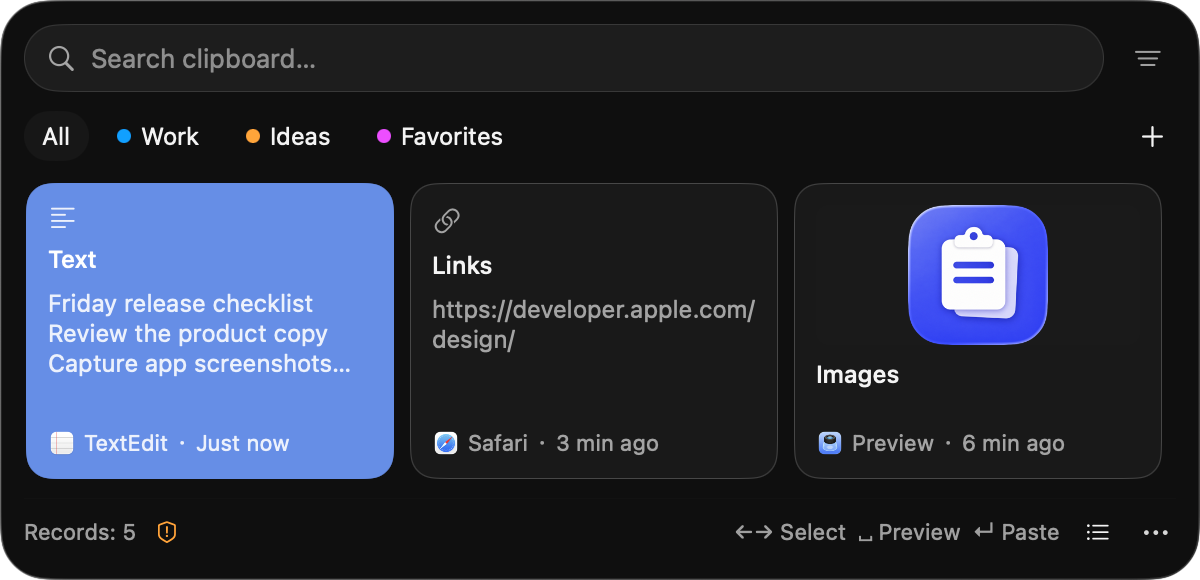
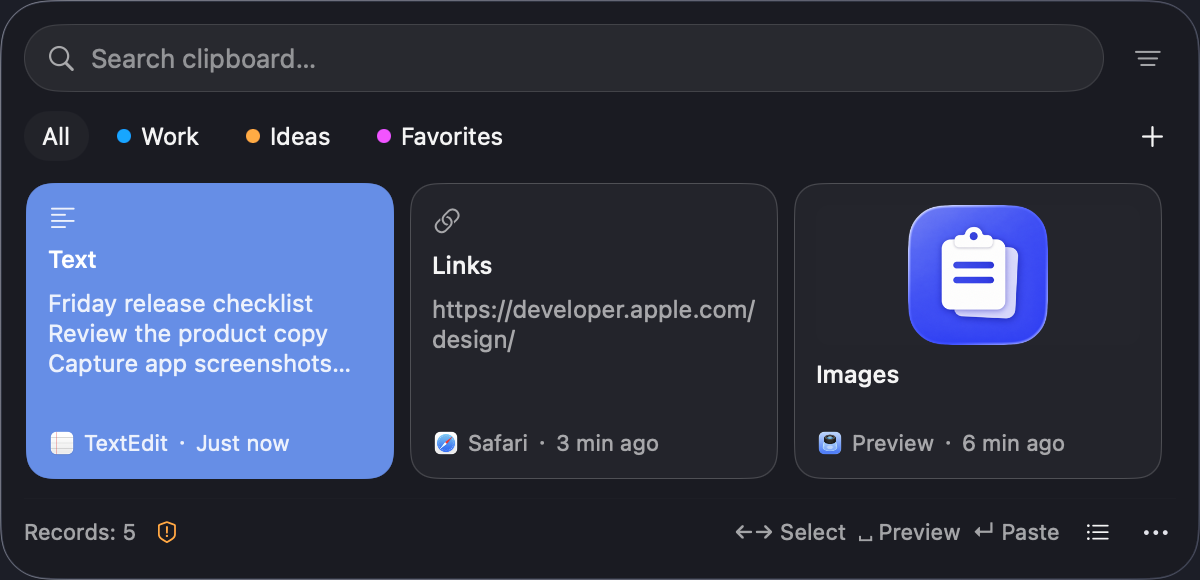
fix: improve website discovery and screenshot backgrounds
* fix: improve website discovery and screenshot backgrounds

* docs: keep a single website changelog entry

---------

diff --git a/website/styles.css b/website/styles.css
@@ -46,10 +46,10 @@ h1 span { color: var(--blue); }
 .hero-copy > p:not(.eyebrow):not(.compatibility) { max-width: 440px; font-size: 18px; color: var(--muted); line-height: 1.85; }
 .actions { display: flex; flex-wrap: wrap; gap: 12px; margin-top: 28px; }
 .compatibility { margin: 18px 0 0; font-size: 13px; color: var(--muted); }
-.hero-visual { margin: 0; position: relative; padding: 35px 18px 22px; border: 1px solid #d9dfff; border-radius: 32px; background: radial-gradient(ellipse at 70% 15%, #fff 0, transparent 60%), linear-gradient(150deg, #e9edff, #b9c8ff); }
-.visual-topline { display: flex; align-items: center; justify-content: space-between; gap: 12px; padding-inline: 15px; margin-bottom: 16px; color: #3d4973; font-size: 12px; letter-spacing: .04em; }
-.hero-visual > picture img { width: 100%; filter: drop-shadow(0 15px 24px #23337329); }
-.hero-visual figcaption { text-align: center; color: #3d4973; font-size: 12px; margin-top: 12px; }
+.hero-visual { margin: 0; position: relative; padding: 35px 18px 22px; border: 1px solid var(--line); border-radius: 32px; background: var(--surface); }
+.visual-topline { display: flex; align-items: center; justify-content: space-between; gap: 12px; padding-inline: 15px; margin-bottom: 16px; color: var(--muted); font-size: 12px; letter-spacing: .04em; }
+.hero-visual > picture img { width: 100%; }
+.hero-visual figcaption { text-align: center; color: var(--muted); font-size: 12px; margin-top: 12px; }
 .overview { display: grid; grid-template-columns: repeat(4, 1fr); padding-block: 26px; border-block: 1px solid var(--line); }
 .overview div { text-align: center; padding: 4px 12px; }
 .overview div + div { border-left: 1px solid var(--line); }
@@ -62,10 +62,10 @@ h2 { font-size: clamp(30px, 3.4vw, 42px); line-height: 1.3; letter-spacing: -.04
 .section-heading > p:last-child { color: var(--muted); font-size: 17px; }
 .layouts { padding-bottom: 0; }
 .layout-gallery { display: grid; grid-template-columns: 1.15fr 1fr; gap: 24px; }
-.layout-gallery figure { margin: 0; padding: 28px 24px 24px; background: var(--soft); border: 1px solid var(--line); border-radius: var(--radius); }
+.layout-gallery figure { margin: 0; padding: 28px 24px 24px; background: var(--surface); border: 1px solid var(--line); border-radius: var(--radius); }
 .layout-image { height: 330px; display: flex; align-items: center; justify-content: center; }
 .layout-image picture { display: block; width: 100%; }
-.layout-image img { max-height: 330px; width: 100%; object-fit: contain; filter: drop-shadow(0 10px 16px #2333731a); }
+.layout-image img { max-height: 330px; width: 100%; object-fit: contain; }
 .layout-gallery figcaption { margin-top: 24px; }
 .layout-gallery figcaption strong { display: block; font-size: 18px; margin-bottom: 6px; }
 .layout-gallery figcaption span { color: var(--muted); font-size: 15px; }
@@ -122,8 +122,6 @@ details p:last-child { margin-bottom: 0; }
 @media (prefers-color-scheme: dark) {
     :root { --page: #13151d; --surface: #1b1e28; --text: #f0f1f6; --muted: #afb5c7; --line: #303544; --blue: #a5b1ff; --soft: #242b46; }
     .button { background: #495be9; color: #fff; }
-    .hero-visual { background: radial-gradient(ellipse at 70% 15%, #374b89 0, transparent 60%), linear-gradient(150deg, #28385f, #252d47); border-color: #3a4974; }
-    .visual-topline, .hero-visual figcaption { color: #d1dbff; }
     .group-gallery figure:not(.dark) { border-color: #b4bfd7; }
 }
 

diff --git a/CONTRIBUTING.md b/CONTRIBUTING.md
@@ -116,13 +116,17 @@ sh scripts/build-website.sh
 python3 -m http.server 4173 --bind 127.0.0.1 --directory .build/website
 ```
 
-Open `http://127.0.0.1:4173/` or `http://127.0.0.1:4173/en/`. Re-run the build after edits. The build copies only the website pages, stylesheet, and selected images from `docs/` into `.build/website/`. Before submitting, check both languages, narrow and desktop layouts, light/dark appearance, keyboard navigation, FAQ expansion, and local links. No macOS app build is needed for website-only changes.
+Open `http://127.0.0.1:4173/` or `http://127.0.0.1:4173/en/`. Re-run the build after edits. The build copies only the website pages, stylesheet, sitemap, robots file, and selected images from `docs/` into `.build/website/`. Before submitting, check both languages, narrow and desktop layouts, light/dark appearance, keyboard navigation, FAQ expansion, and local links. No macOS app build is needed for website-only changes.
 
-Keep source PNGs in `docs/`. The website uses the 256 × 256 `logo-web.png` for its icons (displayed at up to 72 CSS pixels) and lossless `.webp` copies of the app screenshots. When replacing screenshots, regenerate the WebP with `cwebp -lossless -exact -metadata icc -m 6 input.png -o output.webp` to preserve pixels and the color profile. The normal website build only copies committed assets and does not require image conversion tools.
+Keep source PNGs in `docs/`. The website uses the 256 × 256 `logo-web.png` for its icons (displayed at up to 72 CSS pixels) and lossless `.webp` copies of the app screenshots. When replacing screenshots, regenerate the WebP with `cwebp -lossless -exact -metadata icc -m 6 input.png -o output.webp` to preserve pixels and the color profile. Capture the composited screen region with an opaque white backdrop in light appearance and a neutral dark backdrop in dark appearance; capturing the glass window alone can lose its backdrop and produce a gray veil. Use only synthetic content and exclude other windows. The normal website build only copies committed assets and does not require image conversion tools.
 
 In repository **Settings → Pages → Build and deployment**, select **GitHub Actions**. The [Website workflow](./.github/workflows/pages.yml) builds on relevant pull requests and deploys only from `main`, after website, selected asset, build-script, or workflow changes; it can also be run manually. Website publishing does not create an application release. Downloads always link to the latest GitHub Release.
 
-The default public URLs are `https://wygkzqa.github.io/paste-lite/` and its `en/` subdirectory. Relative asset links support this project path. If a custom domain is added, also update the canonical, alternate-language, and Open Graph URLs in both HTML files and the website links in both READMEs.
+The default public URLs are `https://wygkzqa.github.io/paste-lite/` and its `en/` subdirectory. Relative asset links support this project path.
+
+The [sitemap](./website/sitemap.xml) lists both language versions and is published at `https://wygkzqa.github.io/paste-lite/sitemap.xml`; it can be submitted directly to search-engine webmaster tools. [robots.txt](./website/robots.txt) is included in the build as a deployable copy, but crawlers only use `https://wygkzqa.github.io/robots.txt`. The project-path copy at `/paste-lite/robots.txt` has no effect on crawling; deploy the file separately through the account site to enable it. A missing host-root robots file does not block crawling.
+
+If a custom domain is added, also update the canonical, alternate-language, and Open Graph URLs in both HTML files, the sitemap and robots file, and the website links in both READMEs.
 
 ## Implementation guidelines
 

diff --git a/CONTRIBUTING.zh-CN.md b/CONTRIBUTING.zh-CN.md
@@ -116,13 +116,17 @@ sh scripts/build-website.sh
 python3 -m http.server 4173 --bind 127.0.0.1 --directory .build/website
 ```
 
-打开 `http://127.0.0.1:4173/` 或 `http://127.0.0.1:4173/en/`，修改后重新执行构建。构建仅将官网页面、样式表及 `docs/` 中选定的图片复制到 `.build/website/`。提交前检查两种语言、窄屏与桌面布局、浅色与深色外观、键盘导航、FAQ 展开及本地链接。仅修改官网无需构建 macOS 应用。
+打开 `http://127.0.0.1:4173/` 或 `http://127.0.0.1:4173/en/`，修改后重新执行构建。构建仅将官网页面、样式表、网站地图、robots 文件及 `docs/` 中选定的图片复制到 `.build/website/`。提交前检查两种语言、窄屏与桌面布局、浅色与深色外观、键盘导航、FAQ 展开及本地链接。仅修改官网无需构建 macOS 应用。
 
-`docs/` 保留原始 PNG。官网图标使用 256 × 256 的 `logo-web.png`（页面最大显示尺寸为 72 CSS 像素），应用截图使用无损 `.webp` 副本。更换截图时，使用 `cwebp -lossless -exact -metadata icc -m 6 input.png -o output.webp` 重新生成，保留像素与颜色配置。日常官网构建只复制已提交的资源，不需要图片转换工具。
+`docs/` 保留原始 PNG。官网图标使用 256 × 256 的 `logo-web.png`（页面最大显示尺寸为 72 CSS 像素），应用截图使用无损 `.webp` 副本。更换截图时，使用 `cwebp -lossless -exact -metadata icc -m 6 input.png -o output.webp` 重新生成，保留像素与颜色配置。截图时，在浅色下使用不透明白色背景、深色下使用中性深色背景，截取屏幕合成后的应用区域；单独截取玻璃窗口可能丢失背景并产生灰色蒙层。仅使用示例内容，并排除其他窗口。日常官网构建只复制已提交的资源，不需要图片转换工具。
 
 在仓库 **Settings → Pages → Build and deployment** 中选择 **GitHub Actions**。[Website 工作流](./.github/workflows/pages.yml)在相关 PR 中构建，仅在 `main` 上的官网、图片资源、构建脚本或工作流变化后部署，也可手动运行。官网发布不创建应用新版本；下载始终链接到最新 GitHub Release。
 
-默认公开地址为 `https://wygkzqa.github.io/paste-lite/` 及其 `en/` 子目录。资源使用相对链接，兼容项目路径。以后绑定自定义域名时，还需同步修改两份 HTML 中的 canonical、多语言 alternate 与 Open Graph 地址，以及两份 README 的官网入口。
+默认公开地址为 `https://wygkzqa.github.io/paste-lite/` 及其 `en/` 子目录。资源使用相对链接，兼容项目路径。
+
+[网站地图](./website/sitemap.xml)列出两种语言，发布地址为 `https://wygkzqa.github.io/paste-lite/sitemap.xml`，可直接提交给搜索引擎站长工具。[robots.txt](./website/robots.txt) 随构建提供可部署副本，但爬虫只读取 `https://wygkzqa.github.io/robots.txt`；项目路径 `/paste-lite/robots.txt` 下的副本不控制抓取，需要通过账号站点单独发布到域名根目录才会生效。根目录缺少 robots 文件不阻止抓取。
+
+以后绑定自定义域名时，还需同步修改两份 HTML 中的 canonical、多语言 alternate 与 Open Graph 地址、网站地图与 robots 文件，以及两份 README 的官网入口。
 
 ## 实现约定
 

diff --git a/CHANGELOG.md b/CHANGELOG.md
@@ -8,7 +8,6 @@ Notable changes to Paste Lite are recorded here.
 
 ### Website
 
-- Reduce website image downloads with a smaller Logo PNG and lossless WebP screenshots, retaining the source PNGs; keep the header download button text visible on hover in both appearances.
 - Add a Chinese and English product website with actual Cards and List screenshots in both languages and appearances, feature and shortcut guides, installation FAQs, and links to the latest release. The website supports mobile screens and system light/dark appearance and deploys independently through GitHub Pages.
 
 ## [1.2.2](https://github.com/wygkzqa/paste-lite/releases/tag/v1.2.2) — 2026-09-28

diff --git a/CHANGELOG.zh-CN.md b/CHANGELOG.zh-CN.md
@@ -8,7 +8,6 @@
 
 ### 官网
 
-- 官网改用小尺寸压缩 Logo PNG 与无损 WebP 截图，减少图片下载体积并保留原始 PNG；修复浅色、深色下顶部下载按钮悬停时文字不清晰的问题。
 - 新增中英文产品官网，提供中英文及浅深色的卡片和列表实拍、功能与快捷键介绍、安装常见问题及最新正式版下载入口；适配手机与系统浅色、深色外观，通过 GitHub Pages 独立部署。
 
 ## [1.2.2](https://github.com/wygkzqa/paste-lite/releases/tag/v1.2.2) — 2026-09-28
